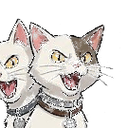
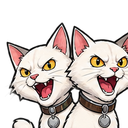
Re-cut 11 cats from the lossless RGBA sheet
The new sheet carries a real alpha channel at 1697x927 — about 1.7x the
resolution of the JPEG pair and with no compression noise in flat colour,
so no matting is needed for these. Source alpha caps at 253; renormalised
to 255 so the art is genuinely opaque.

Head boxes were re-read per drawing rather than scaled from the old crops:
several poses are framed differently on this sheet (Sonny and Mobby most of
all, where the tail changes the bounding box), so the previous fractions
would have mis-centred them.

Dropped a stray "?" glyph that sits between Lefty and Vinnie on the sheet
and fell inside Vinnie's crop box.

Lucky Claw-ciano and Frankie "Fast-Paws" do not appear on this sheet, so
they keep their JPEG-matted versions. Provenance is recorded per file in
the folder README.

Claude-Session: https://claude.ai/code/session_01PE91JkUecvAiFyN7ACHevc

diff --git a/assets/cats/mob/README.md b/assets/cats/mob/README.md
@@ -1,10 +1,20 @@
 # Mobster cat art
 
-Full-body character art for 13 of the 24 roster cats, matted out of the two
-source sheets (same drawings composited over a checkerboard and over flat
-grey #404040). Alpha was solved from the pair rather than colour-keyed:
-pixels identical in both plates are opaque, pixels that differ are
-background, and the size of the difference gives partial alpha on edges.
+Full-body character art for the roster cats, cut from the supplied sheets.
+
+Provenance differs by file, and it matters for quality:
+
+- **11 cats** (everything except the two below) come from the lossless RGBA
+  sheet at 1697x927 — real alpha, roughly 1.7x the resolution of the first
+  pass. Source alpha topped out at 253, so it is renormalised to a true 255
+  before cutting.
+- **`lucky_clawciano` and `frankie_fastpaws`** still come from the original
+  JPEG pair, which is the only sheet they appear on. Alpha there was solved
+  from two composites (checkerboard and flat grey #404040): pixels identical
+  in both plates are opaque, pixels that differ are background, and the size
+  of the difference gives partial alpha on edges. They are lower resolution
+  and carry mild JPEG noise in flat colour. Replace them if those two ever
+  turn up on a lossless sheet.
 
 Filenames match `id` in `src/data/game_data.gd`.
 
